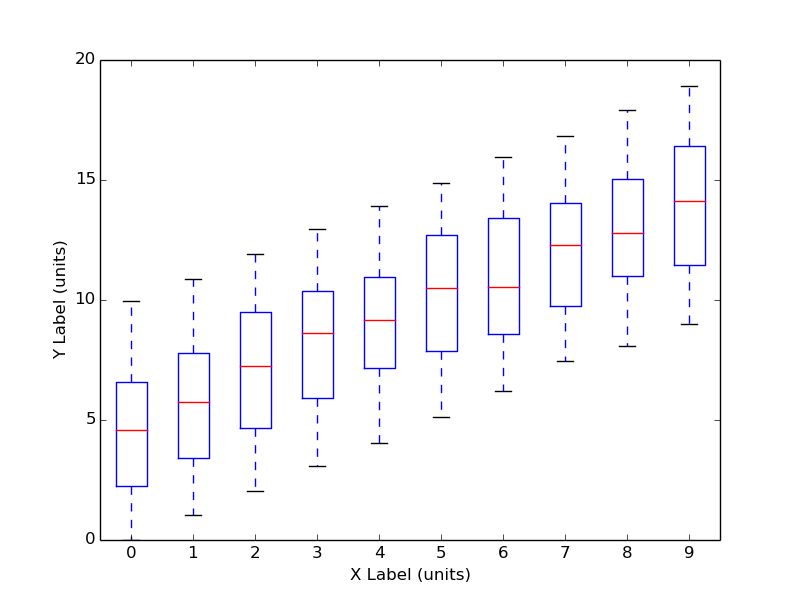
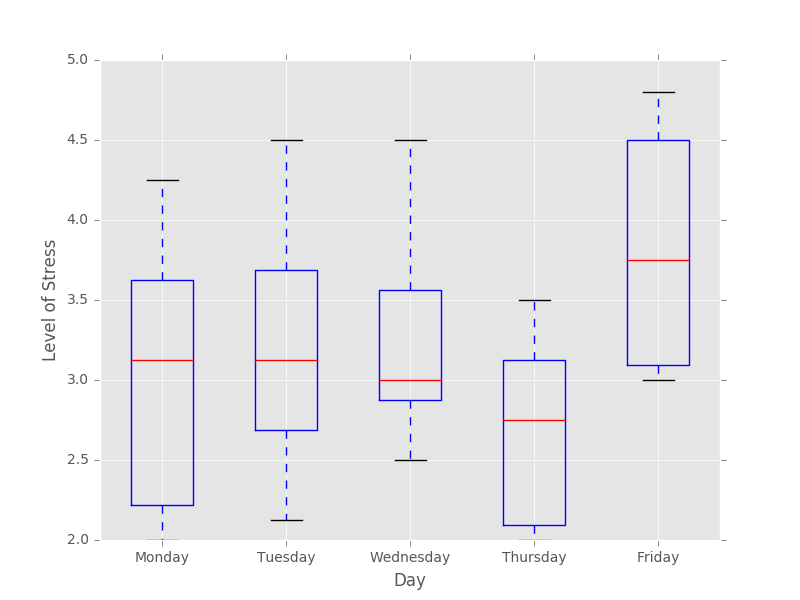
Revised to use pandas

diff --git a/plot.py b/plot.py
@@ -1,79 +1,50 @@
 import optparse
 import sys
 
-import matplotlib
-matplotlib.use('Agg')
-from pylab import *
+import pandas as pd
+import matplotlib.pyplot as plt
 
 # Class that parses a file and plots several graphs
 class Plotter:
     def __init__(self):
-        # create some fake data
-        self.x = []
-        self.y = []
-        self.all = []
-        # x ranges from 0 to 9
-        for i in range(0,10):
-            self.x.append(i)
-            vals = []
-            # each x value has 100 random values of X + random(0,10)
-            for j in range(0,100):
-                val = i + 10*random()
-                vals.append(val)
-                # keep track of all values ever generated
-                self.all.append(val)
-            self.y.append(vals)
-        # keep track of the averages for each X
-        self.averages = []
-        for array in self.y:
-            self.averages.append(average(array))
-
-    def equationPlot(self):
-        """ Create a line graph of an equation. """
-        clf()
-        x = np.arange(0,9.9,0.1)
-        plot(x,1/(10-x))
-        xlabel('X')
-        ylabel('1/(10-x)')
-        savefig('equation.png')
+        plt.style.use('ggplot')
+        pd.set_option('display.width', 1000)
+        pass
 
     def linePlot(self):
         """ Create a line graph. """
-        clf()
-        plot(self.x,self.averages)
-        xlabel('X Label (units)')
-        ylabel('Y Label (units)')
-        savefig('line.png')
+        data = pd.read_csv("data1.csv")
+        plt.figure()
+        ax = data.plot(x='Time',y='Value of Company')
+        ax.set_xlabel("Days")
+        ax.set_ylabel("Dollars (millions)")
+        fig = ax.get_figure()
+        fig.savefig('line.png')
+
 
     def boxPlot(self):
         """ Create a box plot. """
-        clf()
-        boxplot(self.y,positions=self.x,widths=0.5)
-        xlabel('X Label (units)')
-        ylabel('Y Label (units)')
-        savefig('boxplot.png')
-
-    def combinedPlot(self):
-        """ Create a graph that includes a line plot and a boxplot. """
-        clf()
-        # plot the line
-        plot(self.x,self.averages)
-        # plot the boxplot
-        boxplot(self.y,positions=self.x,widths=0.5)
-        xlabel('X Label (units)')
-        ylabel('Y Label (units)')
-        savefig('combined.png')
+        data = pd.read_csv("data2.csv")
+        plt.figure()
+        ax = data.boxplot(return_type='axes')
+        ax.set_xlabel("Day")
+        ax.set_ylabel("Level of Stress")
+        fig = ax.get_figure()
+        fig.savefig('boxplot.png')
 
     def histogramPlot(self):
         """ Create a histogram. """
-        clf()
-        hist(self.all,bins=range(0,20),rwidth=0.8)
-        savefig('histogram.png')
+        data = pd.read_csv("data3.csv")
+        plt.figure()
+        fig, ax = plt.subplots()
+        data.hist(ax=ax)
+        ax.set_xlabel("Pets")
+        ax.set_ylabel("Number of People")
+        fig = ax.get_figure()
+        fig.savefig('histogram.png')
 
 if __name__ == '__main__':
     p = Plotter()
-    p.equationPlot()
     p.linePlot()
     p.boxPlot()
-    p.combinedPlot()
     p.histogramPlot()

diff --git a/README.md b/README.md
@@ -8,21 +8,35 @@ These examples require the installation of matplotlib. You can easily
 install this using:
 
 ```
-sudo pip install matplotlib
+sudo dnf install python-pip
+sudo pip install pandas matplotlib
 ```
 
-If you wish to use a virtual environment instead, then use the
-following to create and activate a virtual environment with the
-required packages.
+I prefer to use a virtual environment, so that every Python program
+can have its own dependencies. In this case, use the following to
+create and activate a virtual environment with the required
+packages. Do this in the top level directory of this code.
 
 ```
-sudo apt-get install python-pip
-pip install virtualenv
-mkdir ~/virtualenvs
-virtualenv ~/virtualenvs/plotting
-source ~/virtualenvs/plotting/bin/activate
+sudo dnf install python-pip
+sudo pip install virtualenv
+virtualenv env
+source env/bin/activate
 pip install -r requirements.txt
 ```
+
+## Installaton Errors
+
+1.
+    ```
+    numpy.distutils.system_info.NotFoundError: no lapack/blas resources found
+    ```
+
+    Then:
+
+    ```
+    sudo dnf install lapack-devel
+    ```
 
 ## Usage
 
